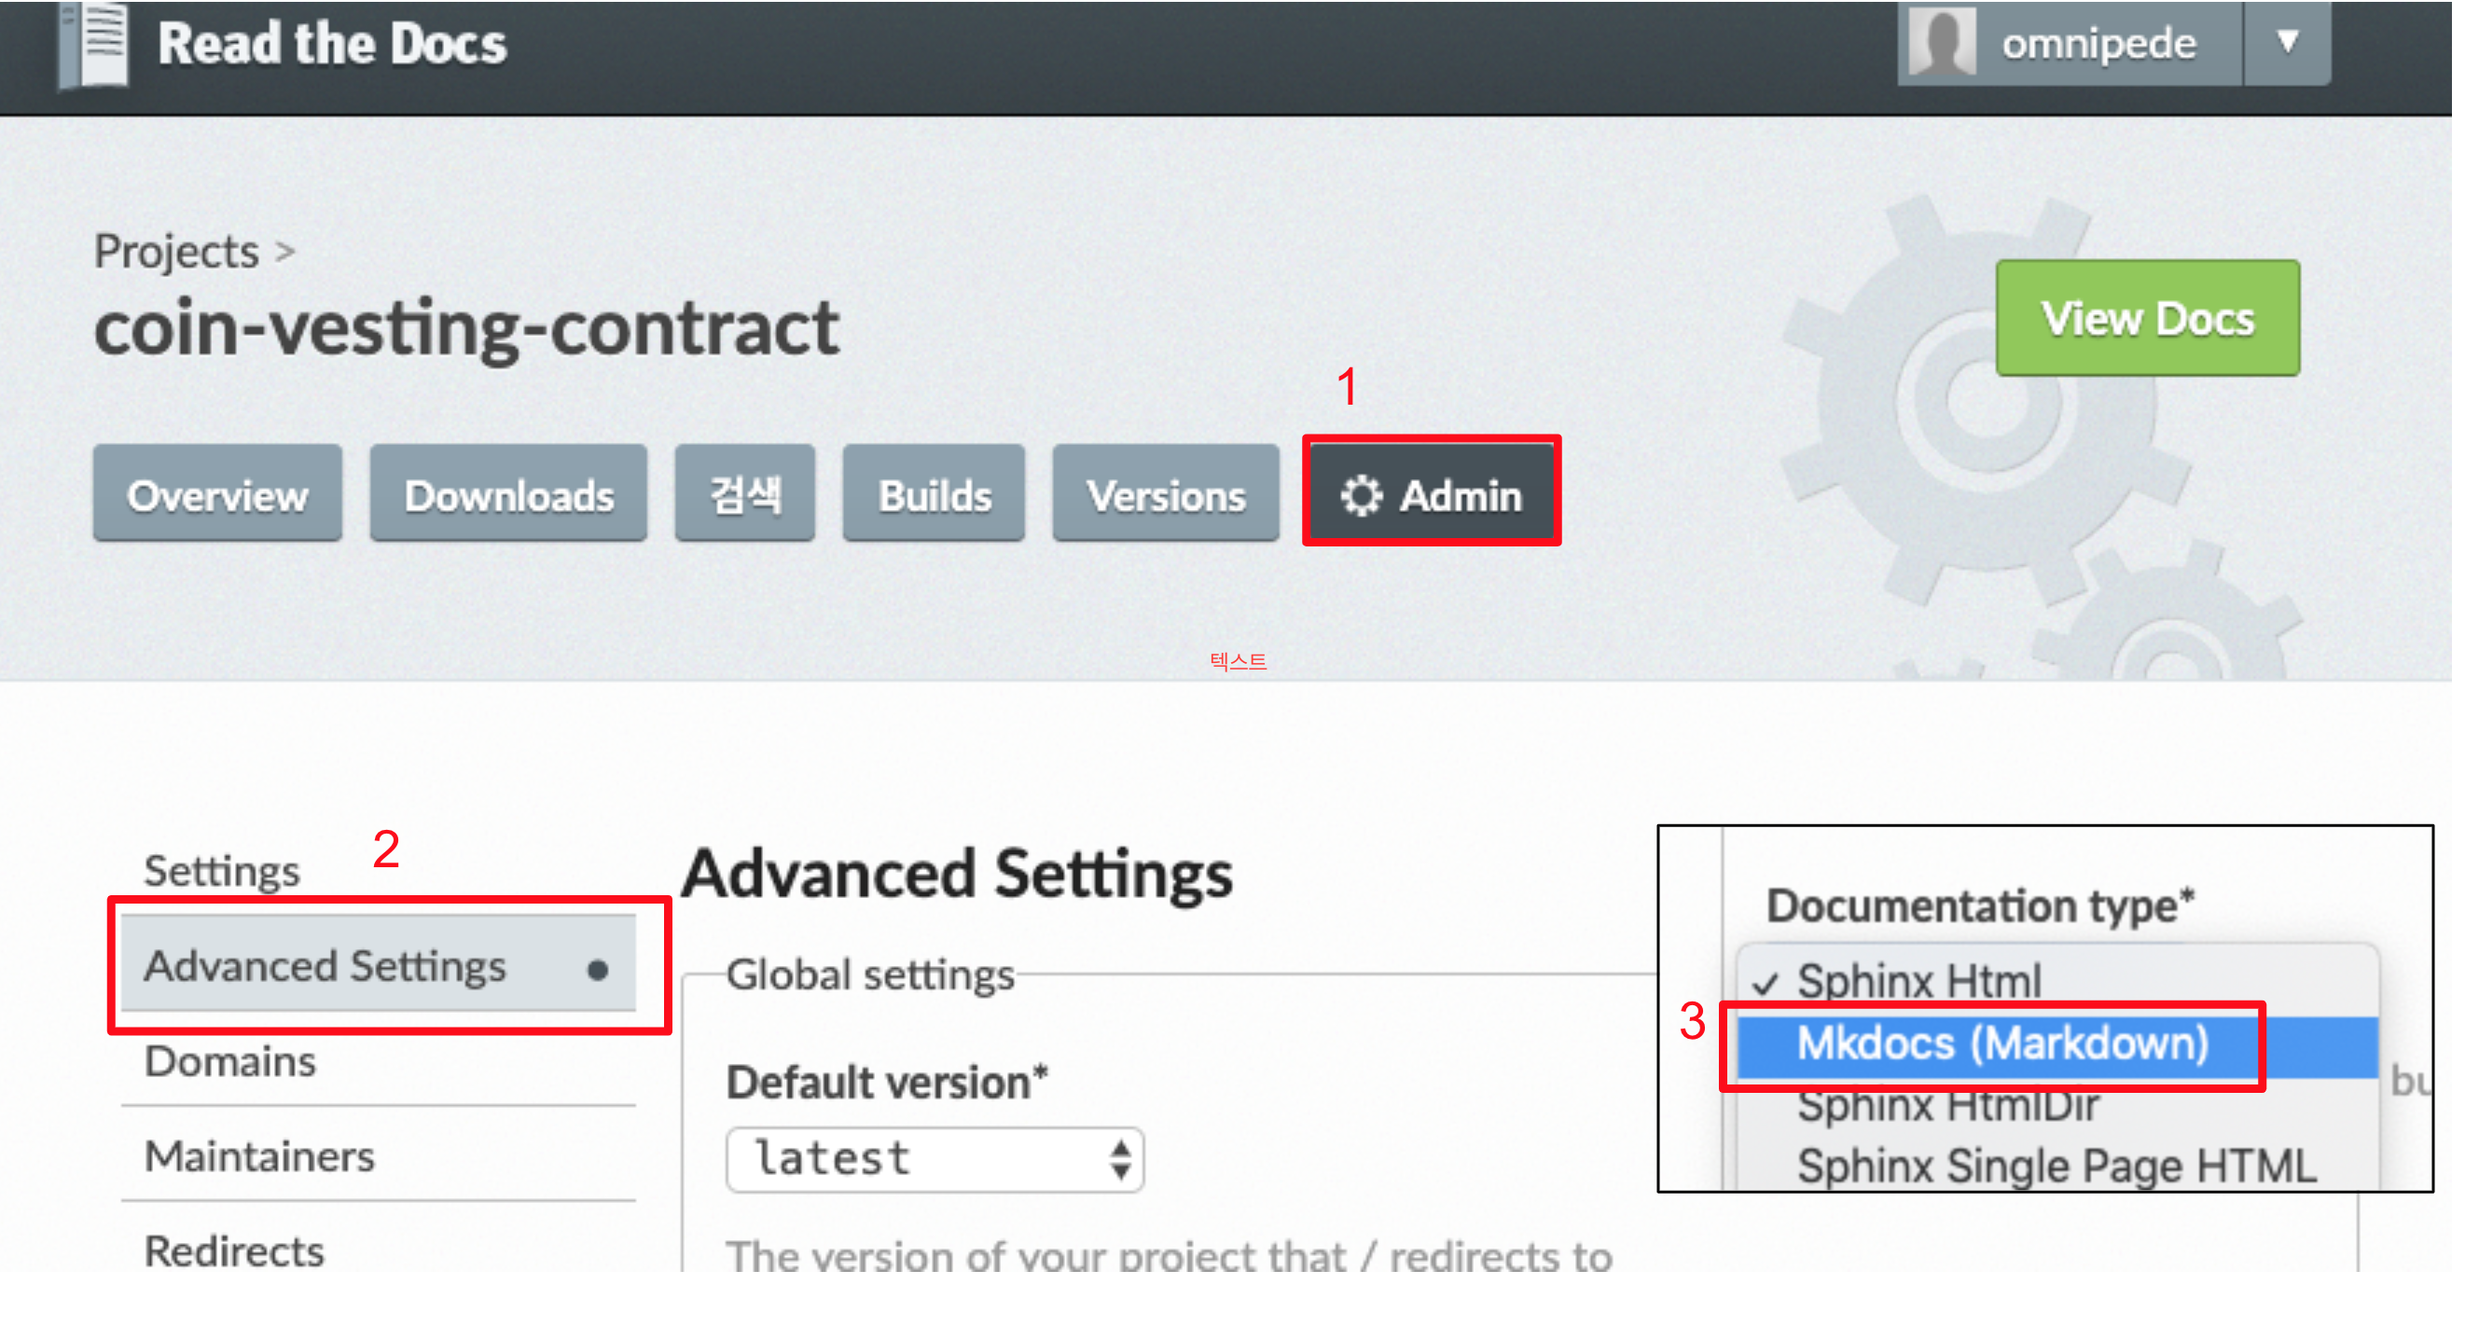
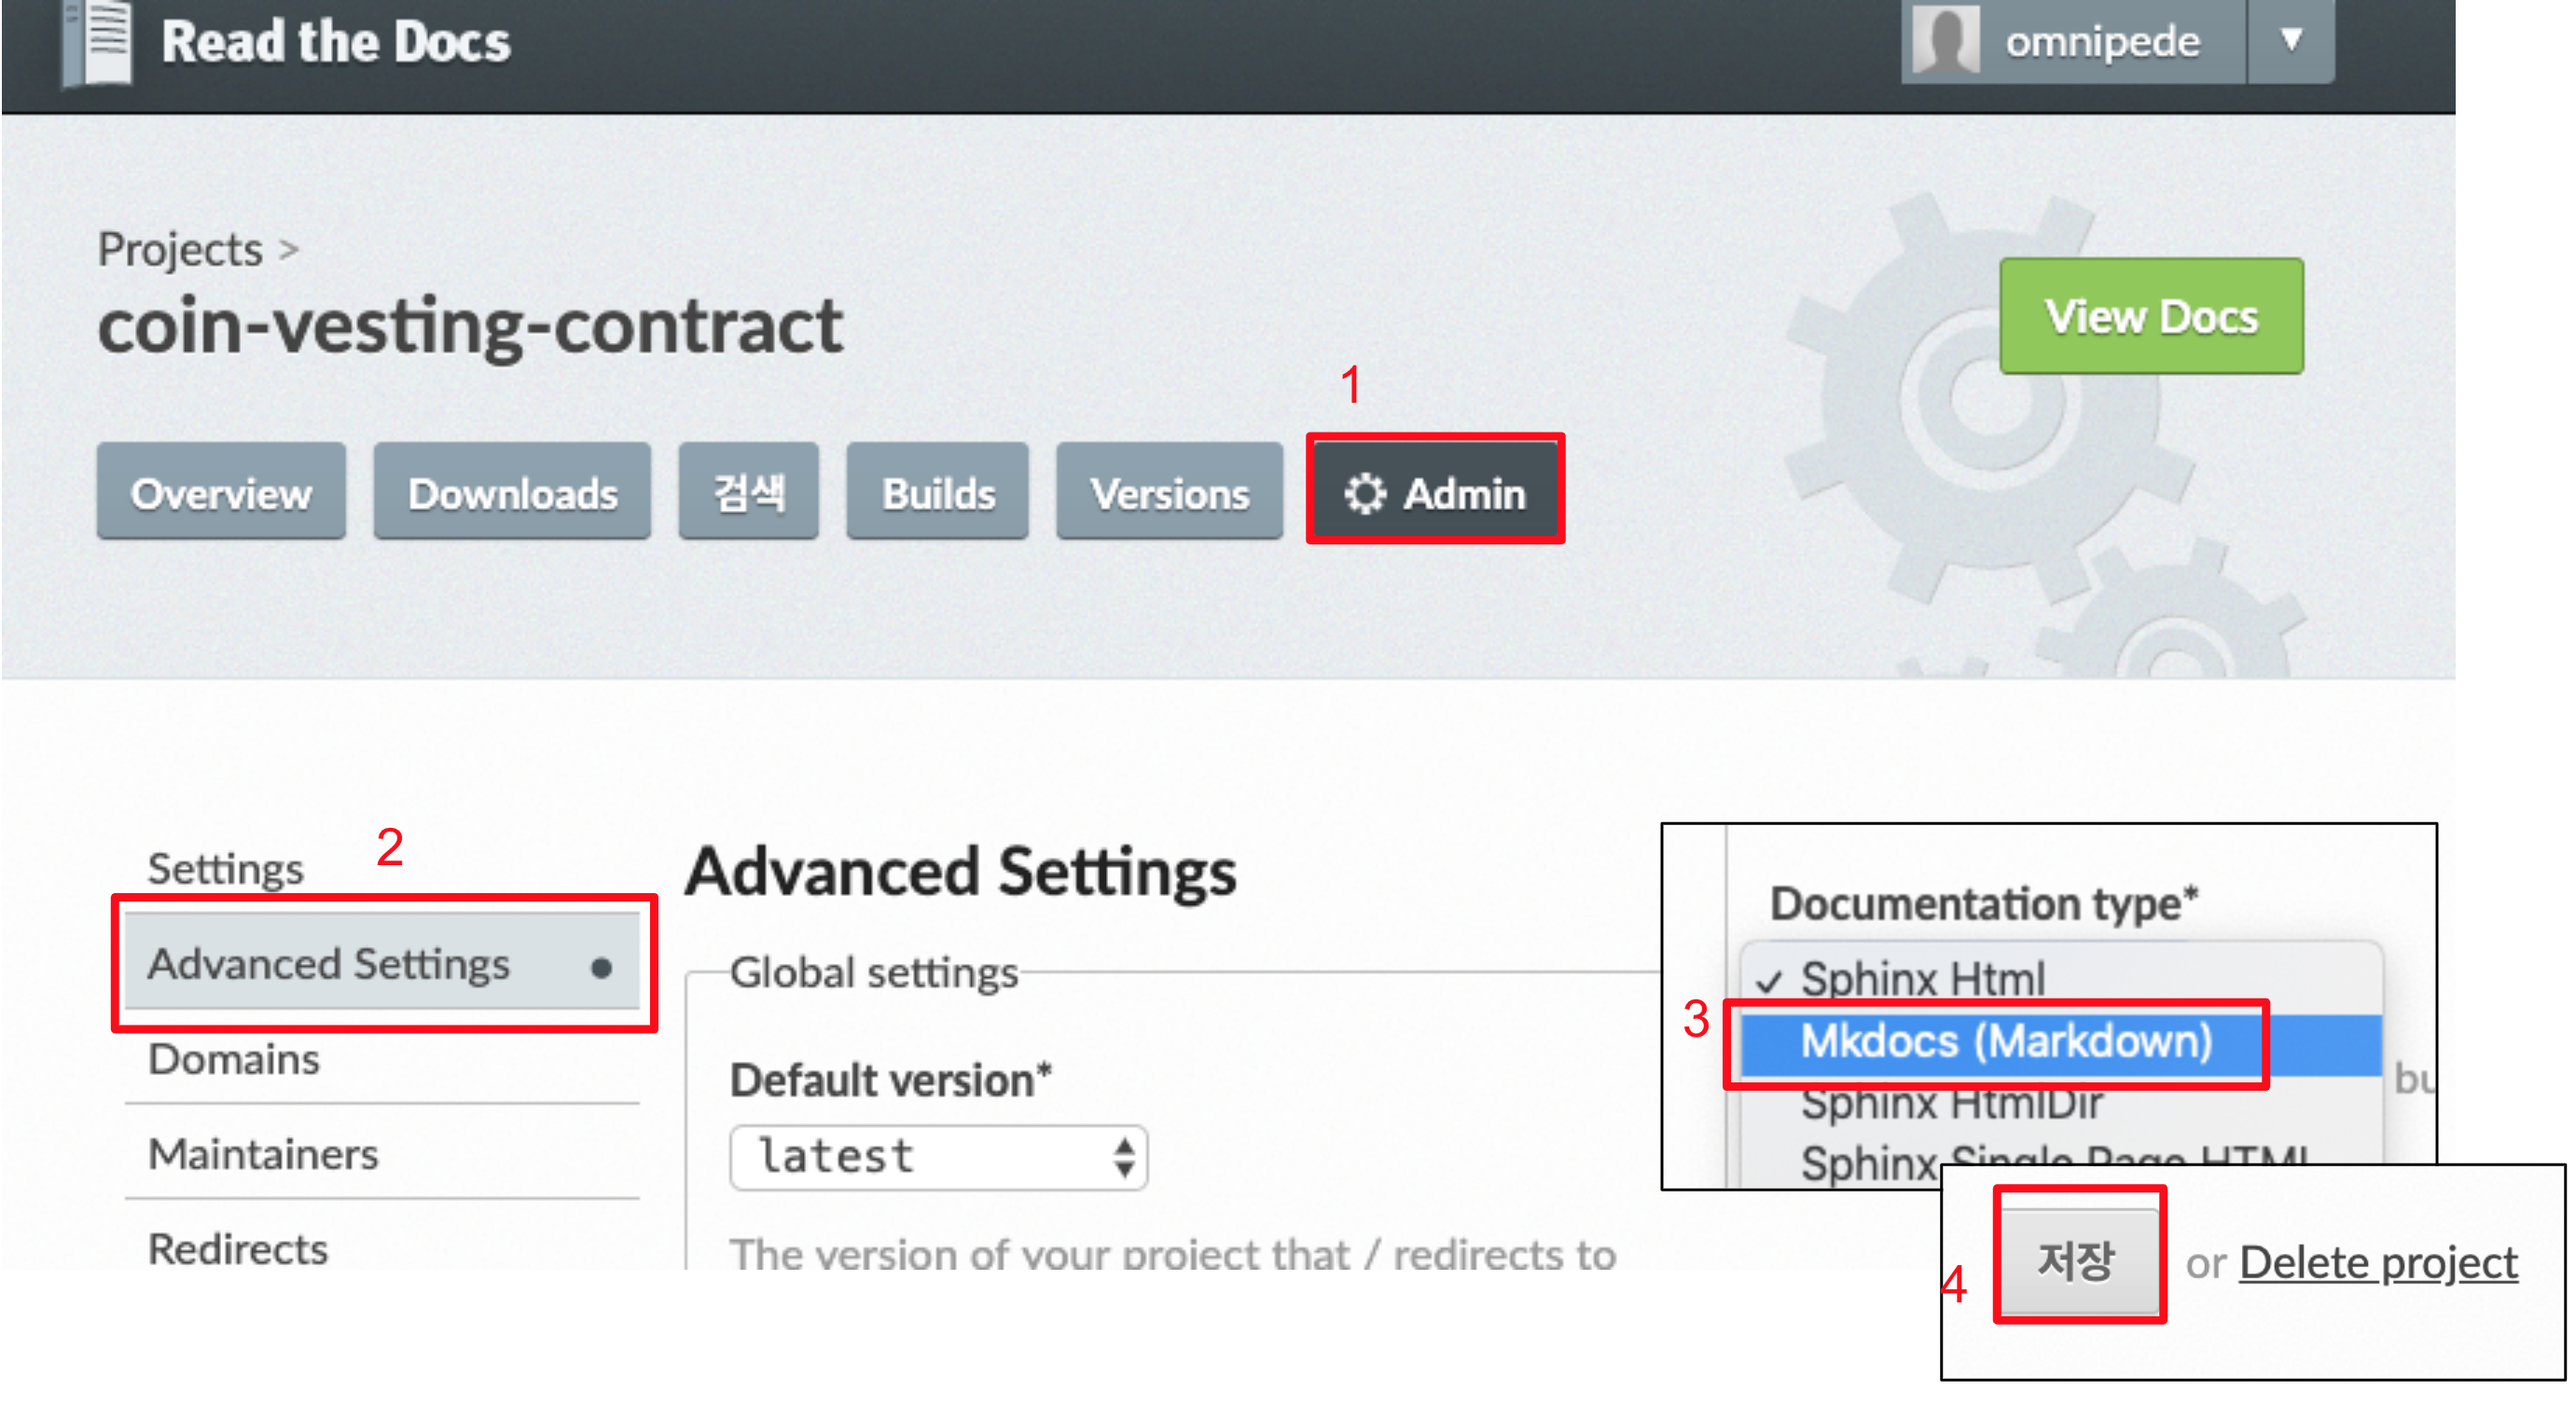
README.md 수정

diff --git a/docs/README.md b/docs/README.md
@@ -19,14 +19,15 @@ theme: readthedocs
 - 우측 상단의 배지를 클릭하여 ```My Projects``` 탭으로 이동합니다.
 
 - ```import project```를 클릭하면 본인의 모든 github repository 목록이 나옵니다. <br>
-   앞서 docs 폴더를 생성한 repository를 선택합니다.
+   앞서 ```docs``` 폴더와 ```mkdocs.yml``` 파일을 생성했던 repository를 선택합니다.
+   ![3](./images/3.png)
+
 
 - Project의 ```Admin``` -> ```Advanced Settings``` 탭에서 ```Document type```을 Mkdocs (Markdown) 으로 변경하고 최하단의 ```저장``` 버튼을 클릭합니다.
 ![1](./images/1.png)
 
-- Project의 ```Overview``` 탭에서  ```Build version ``` 버튼을 눌러 빌드합니다.
+- Project의 ```Overview``` 탭에서  ```Build version ``` 버튼을 눌러 빌드합니다. <br>
+빌드가 완료되면, ```View Docs``` 버튼을 눌러 결과를 확인할 수 있습니다.
 ![2](./images/2.png)
-
-- 빌드가 완료되면, ```View Docs``` 버튼을 눌러 결과를 확인할 수 있습니다.
 
 - 이후 github repository가 commit 될 때마다 Read the docs가 자동으로 빌드 해줍니다.
